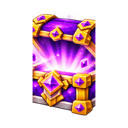
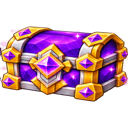
Show every piece in full: whole chests, key art, phone tables, castle backdrop
PO 1 Nov: "chests where half shown". Rendered all 20 pages at 390/768/1440 and audited every image box.
- Wiki chests: the icons came from Chests/chest_0N_*_open_01.png, frames of the opening animation drawn
  as a narrow front slice. Now the Shop's whole closed-chest icons (Shop/shop_1N_chest_*_icon_01.png).
- Home "Coming 19 November" key art: .cta .art max-width 640px outranked img's 100% cap, so on phones it
  ran 266px off screen (Thorn Guard and half the logo hidden). Now min(100%, 640px).
- Wiki tables on phones: .prose overflow-wrap:anywhere split words letter by letter ("Commo/n").
  Tables wrap at word boundaries; the 8-column gear Specials table stacks as cards below 700px
  (build_wiki.py table(..., 'stack') adds data-label); URLs in tables may still break.
- Phone hero: the backdrop window now aims at the castle (object-position 25%) instead of the trees.

diff --git a/wiki/gear/index.html b/wiki/gear/index.html
@@ -63,7 +63,7 @@ level, up to the cap of the piece's rarity.</p>
 <div class="t"><table class=""><thead><tr><th scope="col">Common</th><th scope="col">Uncommon</th><th scope="col">Rare</th><th scope="col">Epic</th><th scope="col">Legendary</th></tr></thead><tbody><tr><td>20</td><td>25</td><td>30</td><td>40</td><td>60</td></tr></tbody></table></div>
 <h2 id="specials">Specials</h2>
 <p>Every look has one special. A rarer piece has a stronger special.</p>
-<div class="t"><table class="icons"><thead><tr><th scope="col"></th><th scope="col">Piece</th><th scope="col">Special</th><th scope="col">Common</th><th scope="col">Uncommon</th><th scope="col">Rare</th><th scope="col">Epic</th><th scope="col">Legendary</th></tr></thead><tbody><tr><td><img class="wiki-icon" src="/assets/wiki/gear-leaf_sandals.png" width="64" height="64" alt="" loading="lazy" decoding="async"></td><td><strong>Leaf Sandals</strong><br>Boots</td><td>Quick Escape: after you drop a bomb, you run faster for</td><td>0.50 s</td><td>0.60 s</td><td>0.75 s</td><td>0.90 s</td><td>1.20 s</td></tr><tr><td><img class="wiki-icon" src="/assets/wiki/gear-mushroom_boots.png" width="64" height="64" alt="" loading="lazy" decoding="async"></td><td><strong>Mushroom Boots</strong><br>Boots</td><td>Forager: chance a crate you break hides a pickup</td><td>+3%</td><td>+5%</td><td>+7%</td><td>+9%</td><td>+12%</td></tr><tr><td><img class="wiki-icon" src="/assets/wiki/gear-root_clogs.png" width="64" height="64" alt="" loading="lazy" decoding="async"></td><td><strong>Root Clogs</strong><br>Boots</td><td>Kick Start: chance to start each round with Kick</td><td>25%</td><td>35%</td><td>45%</td><td>60%</td><td>100%</td></tr><tr><td><img class="wiki-icon" src="/assets/wiki/gear-bark_mitts.png" width="64" height="64" alt="" loading="lazy" decoding="async"></td><td><strong>Bark Mitts</strong><br>Gloves</td><td>Crate Crusher: chance your blast smashes through 2 crates</td><td>10%</td><td>15%</td><td>22%</td><td>30%</td><td>100%</td></tr><tr><td><img class="wiki-icon" src="/assets/wiki/gear-petal_gloves.png" width="64" height="64" alt="" loading="lazy" decoding="async"></td><td><strong>Petal Gloves</strong><br>Gloves</td><td>Spark Bomb: chance your bomb also stuns who survives it</td><td>8%</td><td>11%</td><td>14%</td><td>18%</td><td>25%</td></tr><tr><td><img class="wiki-icon" src="/assets/wiki/gear-thorn_gauntlets.png" width="64" height="64" alt="" loading="lazy" decoding="async"></td><td><strong>Thorn Gauntlets</strong><br>Gloves</td><td>Big Bang: chance your bomb blasts 1 tile further</td><td>10%</td><td>14%</td><td>18%</td><td>24%</td><td>35%</td></tr><tr><td><img class="wiki-icon" src="/assets/wiki/gear-acorn_cap.png" width="64" height="64" alt="" loading="lazy" decoding="async"></td><td><strong>Acorn Cap</strong><br>Helmet</td><td>Early Bird: chance the enemies wait 5 s at the start</td><td>10%</td><td>15%</td><td>20%</td><td>25%</td><td>35%</td></tr><tr><td><img class="wiki-icon" src="/assets/wiki/gear-turtle_shell.png" width="64" height="64" alt="" loading="lazy" decoding="async"></td><td><strong>Turtle Shell</strong><br>Helmet</td><td>Second Wind: when your shield saves you, you heal</td><td>10 health</td><td>15 health</td><td>20 health</td><td>30 health</td><td>40 health</td></tr><tr><td><img class="wiki-icon" src="/assets/wiki/gear-flower_crown.png" width="64" height="64" alt="" loading="lazy" decoding="async"></td><td><strong>Flower Crown</strong><br>Helmet</td><td>Lucky Bloom: chance a bad pickup turns into a good one</td><td>20%</td><td>30%</td><td>40%</td><td>50%</td><td>70%</td></tr></tbody></table></div>
+<div class="t"><table class="icons stack"><thead><tr><th scope="col"></th><th scope="col">Piece</th><th scope="col">Special</th><th scope="col">Common</th><th scope="col">Uncommon</th><th scope="col">Rare</th><th scope="col">Epic</th><th scope="col">Legendary</th></tr></thead><tbody><tr><td><img class="wiki-icon" src="/assets/wiki/gear-leaf_sandals.png" width="64" height="64" alt="" loading="lazy" decoding="async"></td><td data-label="Piece"><strong>Leaf Sandals</strong><br>Boots</td><td data-label="Special">Quick Escape: after you drop a bomb, you run faster for</td><td data-label="Common">0.50 s</td><td data-label="Uncommon">0.60 s</td><td data-label="Rare">0.75 s</td><td data-label="Epic">0.90 s</td><td data-label="Legendary">1.20 s</td></tr><tr><td><img class="wiki-icon" src="/assets/wiki/gear-mushroom_boots.png" width="64" height="64" alt="" loading="lazy" decoding="async"></td><td data-label="Piece"><strong>Mushroom Boots</strong><br>Boots</td><td data-label="Special">Forager: chance a crate you break hides a pickup</td><td data-label="Common">+3%</td><td data-label="Uncommon">+5%</td><td data-label="Rare">+7%</td><td data-label="Epic">+9%</td><td data-label="Legendary">+12%</td></tr><tr><td><img class="wiki-icon" src="/assets/wiki/gear-root_clogs.png" width="64" height="64" alt="" loading="lazy" decoding="async"></td><td data-label="Piece"><strong>Root Clogs</strong><br>Boots</td><td data-label="Special">Kick Start: chance to start each round with Kick</td><td data-label="Common">25%</td><td data-label="Uncommon">35%</td><td data-label="Rare">45%</td><td data-label="Epic">60%</td><td data-label="Legendary">100%</td></tr><tr><td><img class="wiki-icon" src="/assets/wiki/gear-bark_mitts.png" width="64" height="64" alt="" loading="lazy" decoding="async"></td><td data-label="Piece"><strong>Bark Mitts</strong><br>Gloves</td><td data-label="Special">Crate Crusher: chance your blast smashes through 2 crates</td><td data-label="Common">10%</td><td data-label="Uncommon">15%</td><td data-label="Rare">22%</td><td data-label="Epic">30%</td><td data-label="Legendary">100%</td></tr><tr><td><img class="wiki-icon" src="/assets/wiki/gear-petal_gloves.png" width="64" height="64" alt="" loading="lazy" decoding="async"></td><td data-label="Piece"><strong>Petal Gloves</strong><br>Gloves</td><td data-label="Special">Spark Bomb: chance your bomb also stuns who survives it</td><td data-label="Common">8%</td><td data-label="Uncommon">11%</td><td data-label="Rare">14%</td><td data-label="Epic">18%</td><td data-label="Legendary">25%</td></tr><tr><td><img class="wiki-icon" src="/assets/wiki/gear-thorn_gauntlets.png" width="64" height="64" alt="" loading="lazy" decoding="async"></td><td data-label="Piece"><strong>Thorn Gauntlets</strong><br>Gloves</td><td data-label="Special">Big Bang: chance your bomb blasts 1 tile further</td><td data-label="Common">10%</td><td data-label="Uncommon">14%</td><td data-label="Rare">18%</td><td data-label="Epic">24%</td><td data-label="Legendary">35%</td></tr><tr><td><img class="wiki-icon" src="/assets/wiki/gear-acorn_cap.png" width="64" height="64" alt="" loading="lazy" decoding="async"></td><td data-label="Piece"><strong>Acorn Cap</strong><br>Helmet</td><td data-label="Special">Early Bird: chance the enemies wait 5 s at the start</td><td data-label="Common">10%</td><td data-label="Uncommon">15%</td><td data-label="Rare">20%</td><td data-label="Epic">25%</td><td data-label="Legendary">35%</td></tr><tr><td><img class="wiki-icon" src="/assets/wiki/gear-turtle_shell.png" width="64" height="64" alt="" loading="lazy" decoding="async"></td><td data-label="Piece"><strong>Turtle Shell</strong><br>Helmet</td><td data-label="Special">Second Wind: when your shield saves you, you heal</td><td data-label="Common">10 health</td><td data-label="Uncommon">15 health</td><td data-label="Rare">20 health</td><td data-label="Epic">30 health</td><td data-label="Legendary">40 health</td></tr><tr><td><img class="wiki-icon" src="/assets/wiki/gear-flower_crown.png" width="64" height="64" alt="" loading="lazy" decoding="async"></td><td data-label="Piece"><strong>Flower Crown</strong><br>Helmet</td><td data-label="Special">Lucky Bloom: chance a bad pickup turns into a good one</td><td data-label="Common">20%</td><td data-label="Uncommon">30%</td><td data-label="Rare">40%</td><td data-label="Epic">50%</td><td data-label="Legendary">70%</td></tr></tbody></table></div>
 <h2 id="blacksmith">The Blacksmith: merging</h2>
 <p>Merge 3 pieces into one piece of the next rarity. Common, Uncommon
 pieces: any 3 pieces of the same slot and rarity will do (the first one you pick sets the look). From

diff --git a/assets/site.css b/assets/site.css
@@ -102,6 +102,8 @@ h1, h2, h3 { font-family: var(--display); font-weight: 400; line-height: 1.15; l
   box-shadow: 0 3px 0 var(--outline); }
 .stores { display: flex; flex-wrap: wrap; gap: .6rem 1rem; justify-content: center; }
 .hero-blom { display: none; }
+/* Phones keep only ~38% of the backdrop's width: aim that window at the castle (left of centre) instead of the trees. */
+@media (max-width: 599px) { .hero picture.bg img { object-position: 25% 60%; } }
 @media (min-width: 860px) {
   .hero .wrap { grid-template-columns: 1fr minmax(240px, 34%); min-height: 560px; padding-top: 2.5rem; padding-bottom: 2.5rem; }
   .hero-copy { align-self: center; }
@@ -154,7 +156,7 @@ dialog.lightbox button { position: absolute; top: 8px; right: 8px; width: 44px; 
 
 /* ---- CTA band ------------------------------------------------------------------------------------------------ */
 .cta { text-align: center; }
-.cta .art { max-width: 640px; margin: 0 auto 1rem; }
+.cta .art { max-width: min(100%, 640px); margin: 0 auto 1rem; }  /* min(): a bare 640px outranks img's 100% cap and overflowed phones */
 
 /* ---- Prose pages (legal, support, press) --------------------------------------------------------------------- */
 .page { padding: 1.5rem 0 3rem; background: var(--parchment); }
@@ -167,9 +169,27 @@ dialog.lightbox button { position: absolute; top: 8px; right: 8px; width: 44px; 
 .prose code { font-size: .9em; background: var(--parchment-pressed); padding: .05em .3em; border-radius: 4px; }
 .prose blockquote { margin: 1rem 0; padding: .6rem 1rem; background: var(--cream); border-left: 5px solid var(--leaf); border-radius: 6px; }
 .prose .t { overflow-x: auto; }
-.prose table { border-collapse: collapse; width: 100%; font-size: .93rem; margin: 1rem 0; background: var(--cream); }
+.prose table { border-collapse: collapse; width: 100%; font-size: .93rem; margin: 1rem 0; background: var(--cream);
+  overflow-wrap: normal; hyphens: auto; }  /* not .prose's 'anywhere': that let cells shrink and split words letter by letter */
 .prose th, .prose td { border: 1px solid var(--parchment-pressed); padding: .45rem .6rem; text-align: left; vertical-align: top; }
 .prose th { background: var(--parchment-pressed); }
+@media (max-width: 480px) { .prose table { font-size: .85rem; } .prose th, .prose td { padding: .35rem .4rem; } }
+.prose table a { overflow-wrap: anywhere; hyphens: manual; }  /* long policy URLs may break, without a hyphen that reads as part of the URL */
+/* table.stack (build_wiki.py): below 700px each row is a card; icon + name, then the text, then one small column per rarity. */
+@media (max-width: 699px) {
+  .prose table.stack, .prose table.stack tbody { display: block; background: none; }
+  .prose table.stack thead { position: absolute; width: 1px; height: 1px; overflow: hidden; clip: rect(0 0 0 0); }
+  .prose table.stack tr { display: grid; grid-template-columns: repeat(5, minmax(0, 1fr)); gap: .3rem .4rem; margin: 0 0 .7rem;
+    padding: .5rem .6rem; background: var(--cream); border: 1px solid var(--parchment-pressed); border-radius: 8px; }
+  .prose table.stack td { display: block; border: 0; padding: 0; width: auto !important; }
+  .prose table.stack td:nth-child(1) { grid-column: 1; align-self: center; }
+  .prose table.stack td:nth-child(2) { grid-column: 2 / -1; align-self: center; }
+  .prose table.stack td:nth-child(3) { grid-column: 1 / -1; }
+  .prose table.stack td:nth-child(n+4)::before { content: attr(data-label); display: block; font-size: .66rem; font-weight: 700;
+    color: var(--ink-muted); }
+}
+@media (max-width: 360px) { .prose table { font-size: .75rem; } .prose th, .prose td { padding: .3rem .2rem; }
+  .prose table.stack td:nth-child(n+4)::before { font-size: .62rem; } }
 .prose a { color: var(--leaf-edge); }
 .prose .panel { margin: 1.5rem 0; font-family: var(--ui); }
 

diff --git a/tools/build_wiki.py b/tools/build_wiki.py
@@ -157,7 +157,10 @@ def an(word):
 
 def table(head, rows, cls=""):
     th = "".join(f"<th scope=\"col\">{h}</th>" for h in head)
-    trs = "".join("<tr>" + "".join(f"<td>{c}</td>" for c in r) + "</tr>" for r in rows)
+    # A "stack" table is too wide for a phone: each cell carries its column name, and site.css lays every row out as a
+    # card below 700px (instead of squeezing eight columns into 358px or hiding them behind a sideways scroll).
+    lab = (lambda i: f' data-label="{head[i]}"' if head[i] else "") if "stack" in cls.split() else (lambda i: "")
+    trs = "".join("<tr>" + "".join(f"<td{lab(i)}>{c}</td>" for i, c in enumerate(r)) + "</tr>" for r in rows)
     return f'<div class="t"><table class="{cls}"><thead><tr>{th}</tr></thead><tbody>{trs}</tbody></table></div>'
 
 
@@ -504,7 +507,7 @@ level, up to the cap of the piece's rarity.</p>
 {table(rar, [caps])}
 <h2 id="specials">Specials</h2>
 <p>Every look has one special. A rarer piece has a stronger special.</p>
-{table(['', 'Piece', 'Special'] + rar, rows, 'icons')}
+{table(['', 'Piece', 'Special'] + rar, rows, 'icons stack')}
 <h2 id="blacksmith">The Blacksmith: merging</h2>
 <p>Merge {field(PROG, '_mergeInputs')} pieces into one piece of the next rarity. {', '.join(T('menu.gear.rarity_' + r) for r in RARITIES[:field(PROG, '_anyLookMergeMaxRarity')])}
 pieces: any {field(PROG, '_mergeInputs')} pieces of the same slot and rarity will do (the first one you pick sets the look). From
@@ -655,7 +658,9 @@ def chests_section():
         if c["_gems"]:
             lines.append(f"<li>{esc(T('menu.shop.chest_odds_gems', c['_gems']))}</li>")
         price = f"or {c['_gemPrice']} gems in the Shop" if c["_gemPrice"] else "keys only"
-        img = icon(f"Assets/_Project/Art/UI/Chests/chest_0{c['_kind']}_{r}_open_01.png", f"chest-{r}", 128, "")
+        # The Shop's whole closed-chest icon (the game's Shop shows these). Not Chests/chest_0N_*_open_01.png: those are
+        # frames of the opening animation, drawn as a narrow front slice, so on a page they read as half a chest.
+        img = icon(f"Assets/_Project/Art/UI/Shop/shop_{c['_kind'] + 9}_chest_{r}_icon_01.png", f"chest-{r}", 128, "")
         cards.append(f"""<section class="wiki-card" id="{r}-chest"><div class="wiki-card-head">{img}<div>
 <h3>{esc(T('menu.shop.chest_name', rname) if 'menu.shop.chest_name' in S else rname + ' Chest')}</h3>
 <p>Opens with {an(rname)} key ({price}). {esc(T('menu.shop.key_info_' + r))}</p></div></div>
